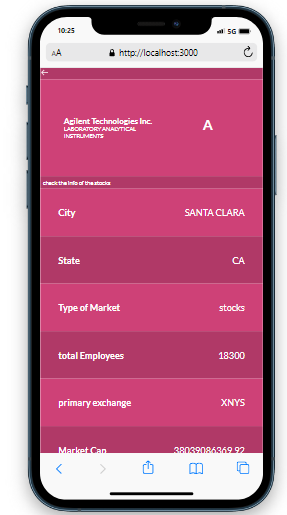
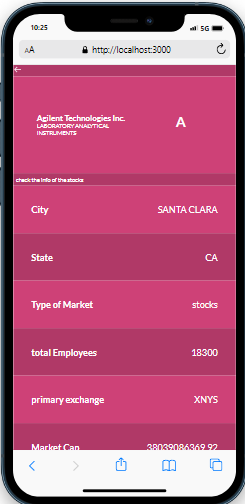
Update img

diff --git a/README.md b/README.md
@@ -1,8 +1,7 @@
 <a name="readme-top"></a>
 
 <div align="center">
-  ![Home](./src/assets/homereact.png)
-  ![detail](./src/assets/detail.png)
+    ![detail](https://github.com/danielamoreno699/react-project-capstone/assets/68881261/01fb9d88-abf9-41d2-a125-56aa849c95bc)
 
 </div>
 
